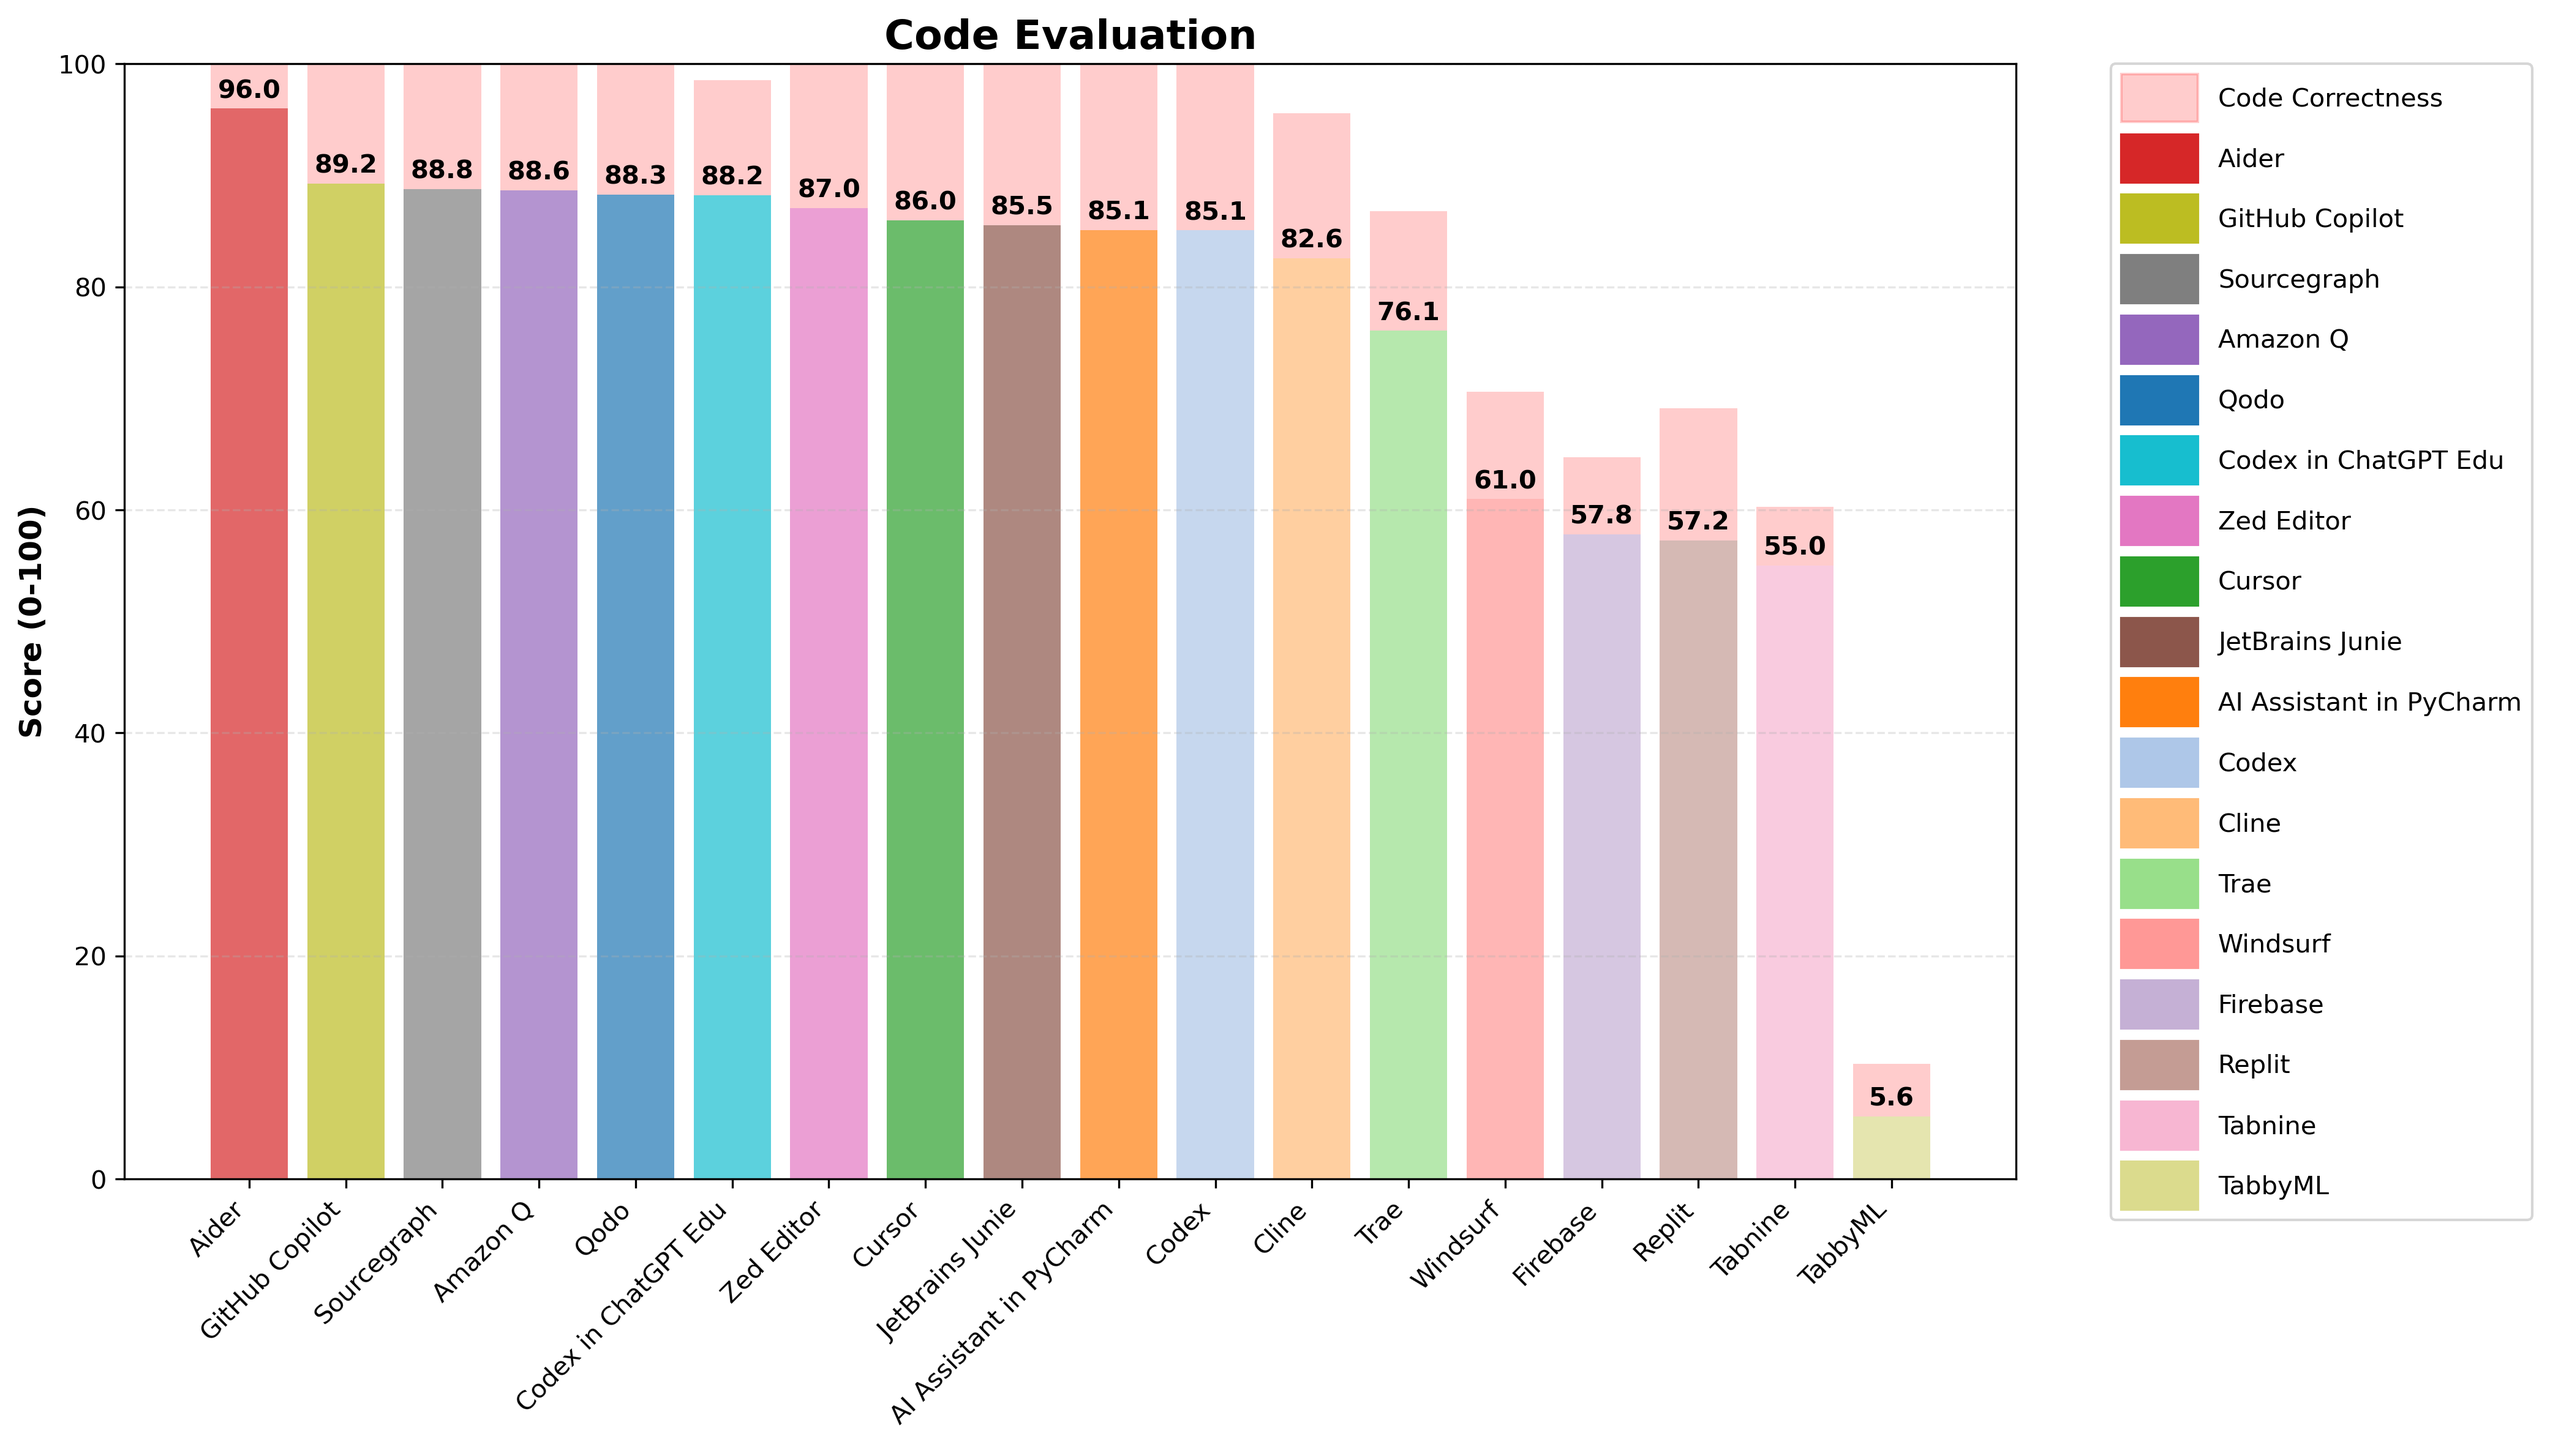
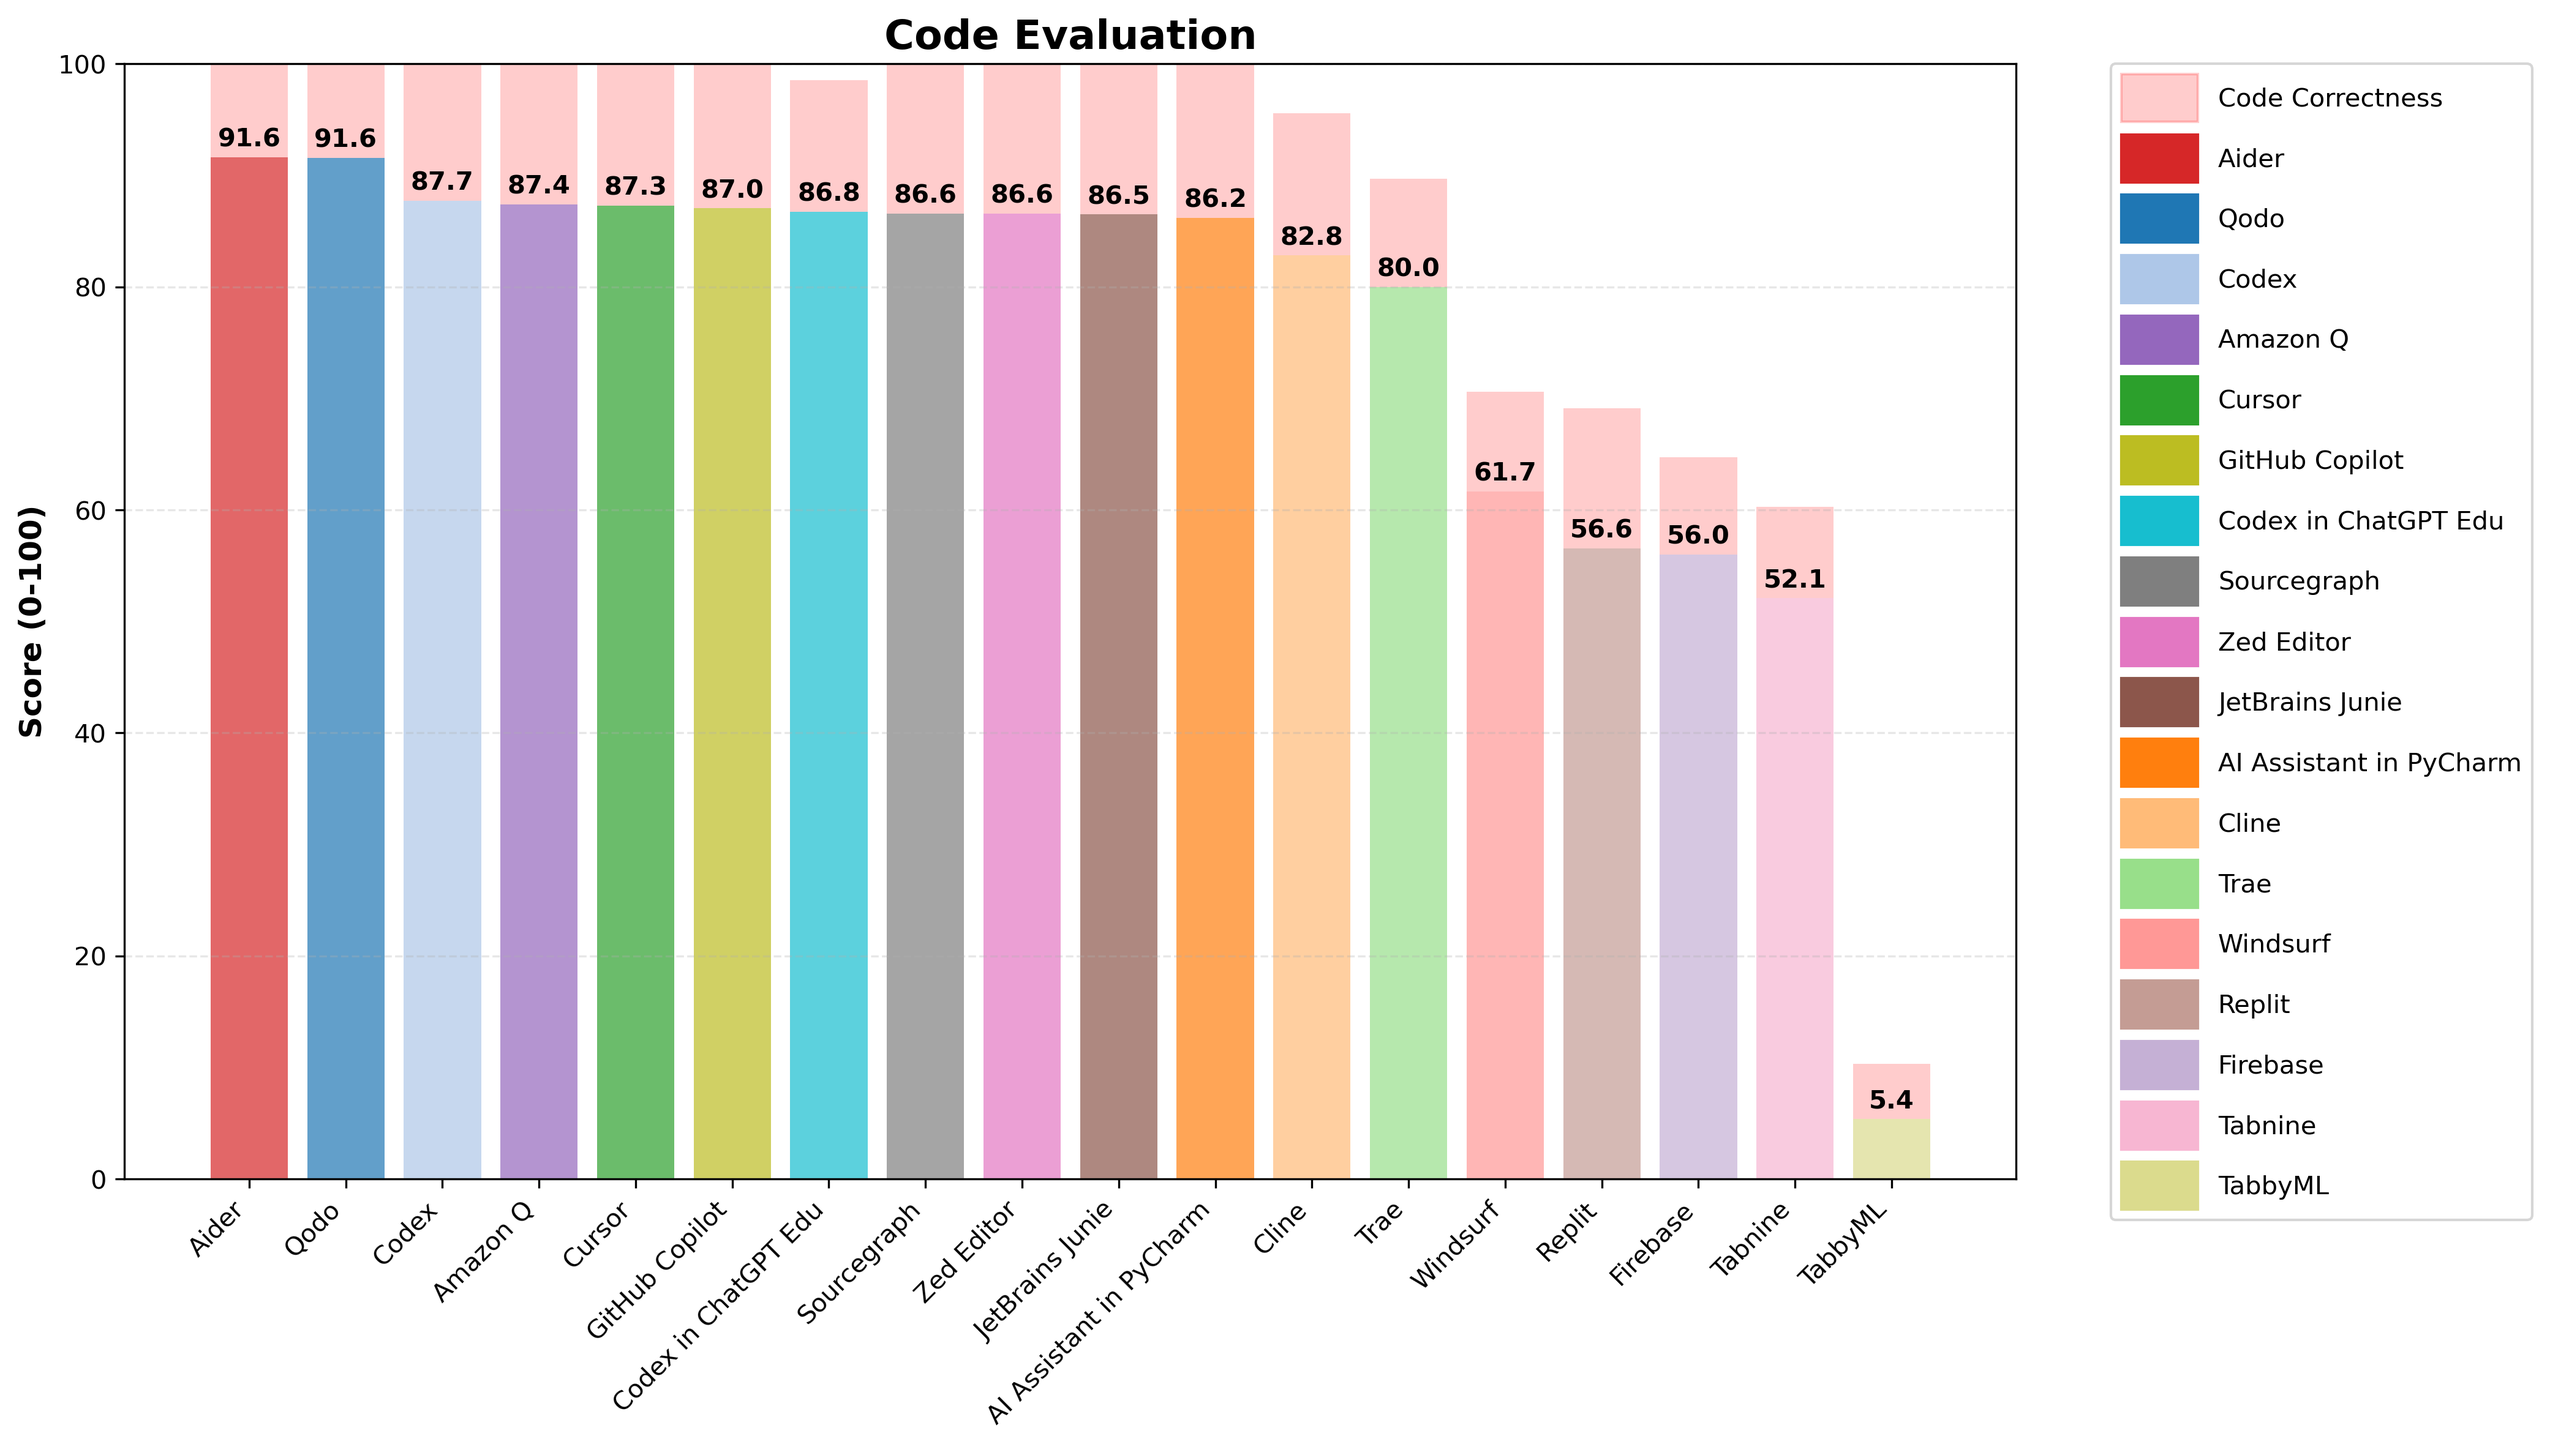
reproducibility

diff --git a/generate_plot.py b/generate_plot.py
@@ -5,7 +5,75 @@ import re
 import matplotlib.pyplot as plt
 from collections import defaultdict
 import pandas as pd
+import json
+import os
 from assistant_mapping import TECHNICAL_TO_DISPLAY, DISPLAY_TO_COLOR, GENERAL_LLM_TECHNICAL_TO_DISPLAY
+
+def load_accumulated_scores():
+    """Load accumulated scores from JSON file if it exists."""
+    json_file = 'accumulated_scores.json'
+    if os.path.exists(json_file):
+        try:
+            with open(json_file, 'r') as f:
+                data = json.load(f)
+                print(f"Loaded {data.get('run_count', 0)} previous benchmark runs")
+                return data
+        except Exception as e:
+            print(f"Error loading accumulated scores: {e}")
+    return {'scores': {}, 'raw_scores': {}, 'run_count': 0}
+
+def save_accumulated_scores(accumulated_data):
+    """Save accumulated scores to JSON file."""
+    json_file = 'accumulated_scores.json'
+    try:
+        with open(json_file, 'w') as f:
+            json.dump(accumulated_data, f, indent=2)
+        print(f"Saved accumulated scores (total runs: {accumulated_data['run_count']})")
+    except Exception as e:
+        print(f"Error saving accumulated scores: {e}")
+
+def accumulate_scores(existing_data, new_scores, new_raw_scores):
+    """Accumulate new scores with existing data. Only accumulate performance scores, not raw correctness."""
+    if not existing_data:
+        return {
+            'scores': new_scores,
+            'raw_scores': new_raw_scores,  # Raw scores don't change, just use latest
+            'run_count': 1
+        }
+    
+    # Get existing data
+    existing_scores = existing_data.get('scores', {})
+    run_count = existing_data.get('run_count', 0)
+    
+    # Accumulate only performance scores
+    accumulated_scores = {}
+    
+    # Combine all unique models
+    all_models = set(existing_scores.keys()) | set(new_scores.keys())
+    
+    for model in all_models:
+        # Get existing values (0 if not present)
+        existing_score = existing_scores.get(model, 0)
+        
+        # Get new values (0 if not present)
+        new_score = new_scores.get(model, 0)
+        
+        # Calculate running average for performance scores only
+        if existing_score == 0 and new_score == 0:
+            accumulated_scores[model] = 0
+        elif existing_score == 0:
+            accumulated_scores[model] = new_score
+        elif new_score == 0:
+            accumulated_scores[model] = existing_score
+        else:
+            # Weighted average based on run count
+            accumulated_scores[model] = (existing_score * run_count + new_score) / (run_count + 1)
+    
+    return {
+        'scores': accumulated_scores,
+        'raw_scores': new_raw_scores,  # Always use latest raw scores (they don't change)
+        'run_count': run_count + 1
+    }
 
 def run_benchmarks():
     """Run the benchmark script and capture output with real-time display."""
@@ -226,7 +294,10 @@ def create_plot(scores, raw_scores):
         print(f"Plot saved as 'general_llms.png'")
 
 def main():
-    print("Running benchmarks...")
+    print("Loading accumulated scores...")
+    accumulated_data = load_accumulated_scores()
+    
+    print("\nRunning benchmarks...")
     print("(This may take a while...)\n")
     
     output = run_benchmarks()
@@ -239,15 +310,26 @@ def main():
     print("ANALYZING RESULTS")
     print("="*60)
     
-    scores, raw_scores = parse_scores(output)
+    new_scores, new_raw_scores = parse_scores(output)
     
-    if scores:
-        print("\nExtracted scores:")
-        for llm, score in sorted(scores.items(), key=lambda x: x[1], reverse=True):
+    if new_scores:
+        print(f"\nCurrent run scores:")
+        for llm, score in sorted(new_scores.items(), key=lambda x: x[1], reverse=True):
+            print(f"{llm}: {score:.2f}")
+        
+        # Accumulate with existing data
+        print(f"\nAccumulating with {accumulated_data['run_count']} previous runs...")
+        accumulated_data = accumulate_scores(accumulated_data, new_scores, new_raw_scores)
+        
+        # Save accumulated results
+        save_accumulated_scores(accumulated_data)
+        
+        print(f"\nFinal accumulated scores (after {accumulated_data['run_count']} runs):")
+        for llm, score in sorted(accumulated_data['scores'].items(), key=lambda x: x[1], reverse=True):
             print(f"{llm}: {score:.2f}")
         
         print("\nGenerating plot...")
-        create_plot(scores, raw_scores)
+        create_plot(accumulated_data['scores'], accumulated_data['raw_scores'])
     else:
         print("No scores could be extracted from the output!")
         print("Debug: Checking if output contains expected patterns...")
